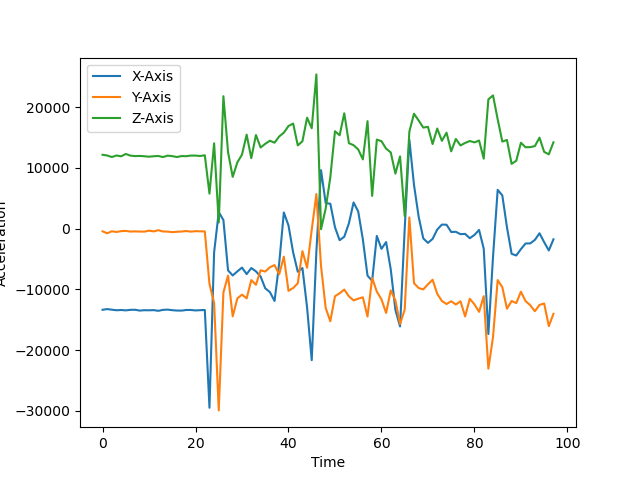
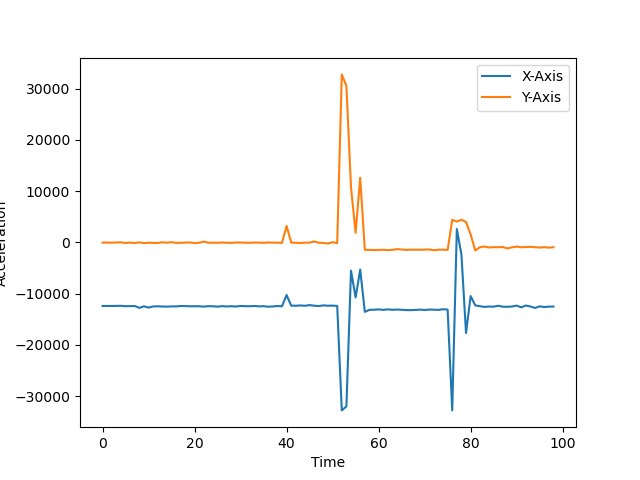
가속도 센서를 이용한 충격 감지

diff --git a/acceleration.py b/acceleration.py
@@ -3,63 +3,80 @@ import time
 import matplotlib.pyplot as plt
 
 # MPU6050 레지스터 주소
-power_mgmt_1 = 0x6b
-accel_x_out = 0x3b
-accel_y_out = 0x3d
-# accel_z_out = 0x3f  # Z 축 제거
+class Acceleration():
+    def __init__(self):
+        self.power_mgmt_1=0x6b
+        self.accel_x_out = 0x3b
+        self.accel_y_out = 0x3d
+        self.x_data=[]
+        self.y_data=[]
+        # I2C 버스 생성
+        self.bus = smbus.SMBus(1)
+    
+    # 센서 초기화
+    def init_sensor(self):
+        self.bus.write_byte_data(0x68, self.power_mgmt_1, 0)
+    
+    # 가속도 값 읽기
+    def read_accel(self):
+        def read_word(reg):
+            high = self.bus.read_byte_data(0x68, reg)
+            low = self.bus.read_byte_data(0x68, reg+1)
+            val = (high << 8) + low
+            return val if val < 0x8000 else val - 65536
 
-# I2C 버스 생성
-bus = smbus.SMBus(1)  # Raspberry Pi에서는 1번을 사용합니다. 만약 0번을 사용하는 경우, 0으로 변경합니다.
+        accel_x = read_word(self.accel_x_out)
+        accel_y = read_word(self.accel_y_out)
 
-# 센서 초기화
-def init_sensor():
-    bus.write_byte_data(0x68, power_mgmt_1, 0)
+        return accel_x, accel_y
 
-# 가속도 값 읽기
-def read_accel():
-    def read_word(reg):
-        high = bus.read_byte_data(0x68, reg)
-        low = bus.read_byte_data(0x68, reg+1)
-        val = (high << 8) + low
-        return val if val < 0x8000 else val - 65536
+    # 데이터 저장
+    def save_data(self):
+        start_time=time.time()
 
-    accel_x = read_word(accel_x_out)
-    accel_y = read_word(accel_y_out)
-    # accel_z = read_word(accel_z_out)  # Z 축 제거
+        try:
+            while time.time()-start_time<10:
+                self.accel_x_out,self.accel_y_out=self.read_accel()
+                print(f"Accelerometer: X={self.accel_x}, Y={self.accel_y}")
 
-    return accel_x, accel_y  # Z 축 제거
+                # 데이터 저장
+                self.x_data.append(self.accel_x)
+                self.y_data.append(self.accel_y)
 
-# 메인 함수
-def main():
-    init_sensor()
+                time.sleep(0.1)  # 0.1초마다 데이터 샘플링
 
-    # 데이터 저장 리스트
-    x_data = []
-    y_data = []
+        except KeyboardInterrupt:
+            pass  # Ctrl+C 입력시 종료
 
-    start_time = time.time()  # 시작 시간
+    # 그래프를 이미지 파일로 저장
+    def show_data(self):
+        plt.plot(self.x_data, label='X-Axis')
+        plt.plot(self.y_data, label='Y-Axis')
+        plt.xlabel('Time')
+        plt.ylabel('Acceleration')
+        plt.legend()
+        plt.savefig('acceleration_graph.png')  
 
-    try:
-        while time.time() - start_time < 10:  # 10초 동안 데이터 읽기
-            accel_x, accel_y = read_accel()
-            print(f"Accelerometer: X={accel_x}, Y={accel_y}")
 
-            # 데이터 저장
-            x_data.append(accel_x)
-            y_data.append(accel_y)
+    #가속도 값을 이용한 충격 감지(수정 필요)
+    def detect_collision(self,threshold=5000, duration=5):
+        self.init_sensor()
+        start_time = time.time()
 
-            time.sleep(0.1)  # 0.1초마다 데이터 샘플링
+        accel_x_prev, accel_y_prev = self.read_accel()
+        while time.time() - start_time < duration:
+            accel_x, accel_y = self.read_accel()
+            
+            # 가속도 변화량 계산
+            delta_x = abs(accel_x - accel_x_prev)
+            delta_y = abs(accel_y - accel_y_prev)
 
-    except KeyboardInterrupt:
-        pass  # Ctrl+C 입력시 종료
+            # 가속도 변화량이 임계값을 초과하는지 확인
+            if delta_x > threshold or delta_y > threshold:
+                print("Collision detected!")
+                return True
 
-    # 그래프 그리기
-    plt.plot(x_data, label='X-Axis')
-    plt.plot(y_data, label='Y-Axis')
-    plt.xlabel('Time')
-    plt.ylabel('Acceleration')
-    plt.legend()
-    plt.savefig('acceleration_graph.png')  # 그래프를 이미지 파일로 저장
+            accel_x_prev, accel_y_prev = accel_x, accel_y
 
-if __name__ == "__main__":
-    main()
+        print("No collision detected.")
+        return False

diff --git a/acceleration_test.py b/acceleration_test.py
@@ -1,0 +1,65 @@
+import smbus
+import time
+import matplotlib.pyplot as plt
+
+# MPU6050 레지스터 주소
+power_mgmt_1 = 0x6b
+accel_x_out = 0x3b
+accel_y_out = 0x3d
+# accel_z_out = 0x3f  # Z 축 제거
+
+# I2C 버스 생성
+bus = smbus.SMBus(1)  # Raspberry Pi에서는 1번을 사용합니다. 만약 0번을 사용하는 경우, 0으로 변경합니다.
+
+# 센서 초기화
+def init_sensor():
+    bus.write_byte_data(0x68, power_mgmt_1, 0)
+
+# 가속도 값 읽기
+def read_accel():
+    def read_word(reg):
+        high = bus.read_byte_data(0x68, reg)
+        low = bus.read_byte_data(0x68, reg+1)
+        val = (high << 8) + low
+        return val if val < 0x8000 else val - 65536
+
+    accel_x = read_word(accel_x_out)
+    accel_y = read_word(accel_y_out)
+    # accel_z = read_word(accel_z_out)  # Z 축 제거
+
+    return accel_x, accel_y  # Z 축 제거
+
+# 메인 함수
+def main():
+    init_sensor()
+
+    # 데이터 저장 리스트
+    x_data = []
+    y_data = []
+
+    start_time = time.time()  # 시작 시간
+
+    try:
+        while time.time() - start_time < 10:  # 10초 동안 데이터 읽기
+            accel_x, accel_y = read_accel()
+            print(f"Accelerometer: X={accel_x}, Y={accel_y}")
+
+            # 데이터 저장
+            x_data.append(accel_x)
+            y_data.append(accel_y)
+
+            time.sleep(0.1)  # 0.1초마다 데이터 샘플링
+
+    except KeyboardInterrupt:
+        pass  # Ctrl+C 입력시 종료
+
+    # 그래프 그리기
+    plt.plot(x_data, label='X-Axis')
+    plt.plot(y_data, label='Y-Axis')
+    plt.xlabel('Time')
+    plt.ylabel('Acceleration')
+    plt.legend()
+    plt.savefig('acceleration_graph.png')  # 그래프를 이미지 파일로 저장
+
+if __name__ == "__main__":
+    main()

diff --git a/main_test.py b/main_test.py
@@ -2,18 +2,20 @@ from gps_data_collector import data_collector
 from json_file import write_json
 from TCP_client import Client
 from crash import crash_detect
+from acceleration import Acceleration
 import time
 import json
 
 def main():
     gps_data = data_collector() #gps 데이터 받는 객체 생성
     crash_sensor=crash_detect() #충돌 감지 객체 생성
+    accel_sensor=Acceleration() #가속도 센서 객체 생성
     json_writer = write_json('/home/kang/Desktop/project/newoutput.json') #json 파일 객체 생성
     client_socket=Client()  #TCP 소켓 객체 생성
     client_socket.accept()  #TCP 서버 연결 요청
 
     #충돌 감지 시
-    if crash_sensor.crash_detection()==1:
+    if crash_sensor.crash_detection()==1: #and 가속도센서를 통한 충돌 임계값 확인
             print("Application started!")
             json_writer.initialize_json_file()  #json 파일 초기화 및 생성
 
@@ -24,8 +26,6 @@ def main():
                 json_writer.save_data_to_json(data) #gps 데이터를 json 파일에 저장
                 #수신한 gps 정보 출력
                 print("Sequence:", data["Sequence"], " Timestamp:", data["Timestamp"], " Latitude:", data["Latitude"], " Longitude:", data["Longitude"])
-
-                #AWS 서버에 보내는 코드
 
                 time.sleep(3)
                 
